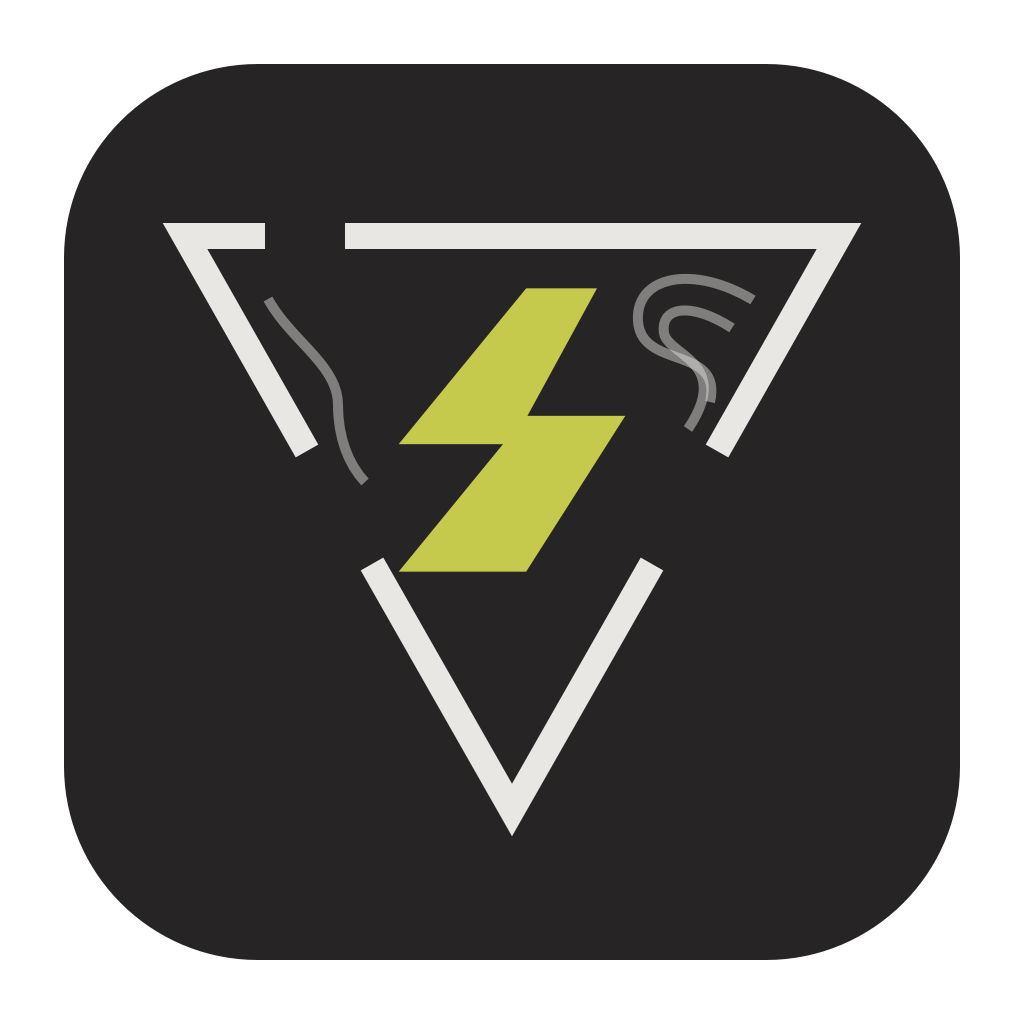
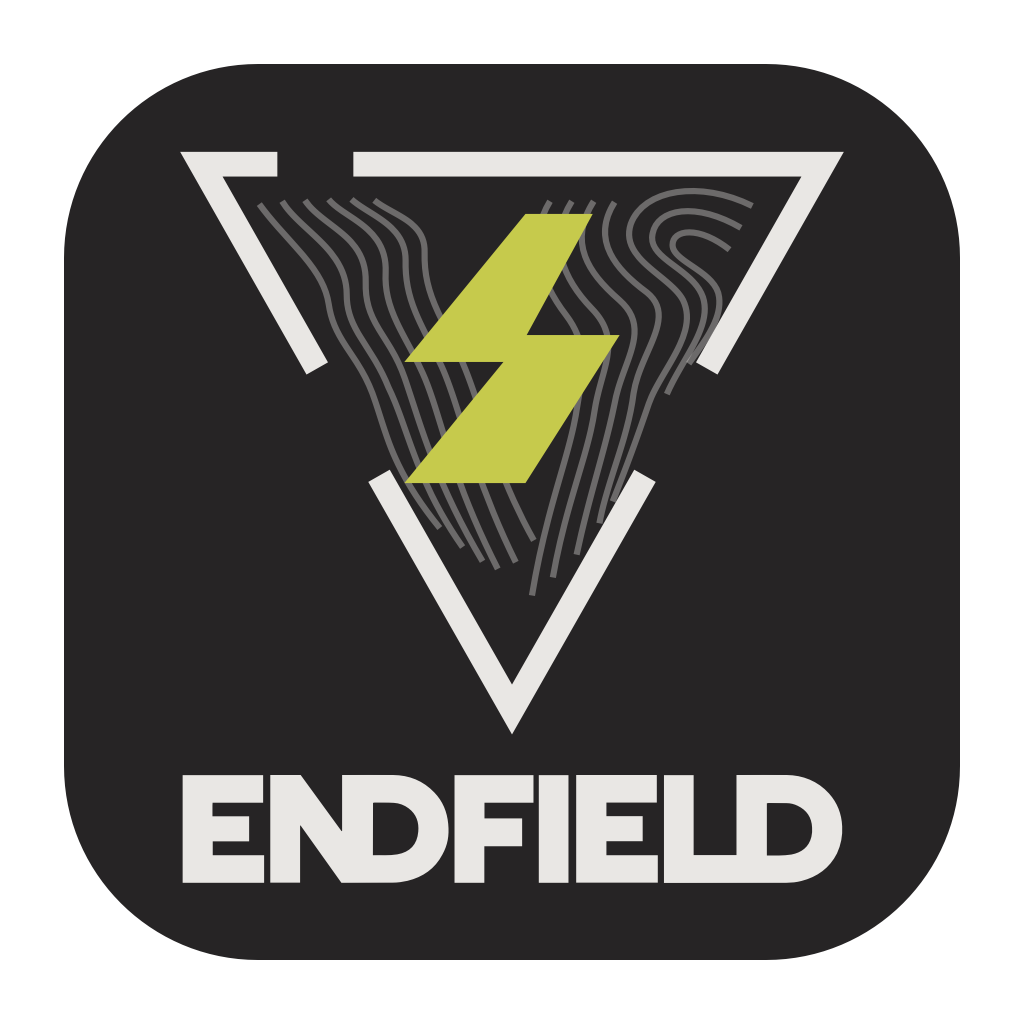
art: refine app contours and preserve original Endfield wordmark

Changed region(s): [[0.1562, 0.125, 0.8438, 0.875]]

diff --git a/scripts/render-icons.swift b/scripts/render-icons.swift
@@ -69,22 +69,184 @@ let triangle = VectorPath(commands: [
     .move(p(345, 236)), .line(p(839, 236)), .line(p(717, 451)),
     .move(p(372, 564)), .line(p(512, 810)), .line(p(652, 564))
 ])
+// Thirteen terrain contours flow in two groups inside the triangle silhouette.
+// Control points also stay inside it, keeping the cubic curves bounded.
 let contours = [
-    VectorPath(commands: [.move(p(268, 299)),
-        .curve(p(291, 341), p(338, 365), p(338, 405)),
-        .curve(p(338, 440), p(350, 466), p(365, 482))]),
-    VectorPath(commands: [.move(p(753, 300)),
-        .curve(p(693, 264), p(635, 276), p(638, 321)),
-        .curve(p(641, 370), p(723, 345), p(710, 402))]),
-    VectorPath(commands: [.move(p(732, 328)),
-        .curve(p(690, 301), p(660, 307), p(664, 333)),
-        .curve(p(668, 356), p(733, 362), p(688, 429))])
+    VectorPath(commands: [.move(p(246, 278)),
+        .curve(p(275, 318), p(313, 344), p(319, 383)),
+        .curve(p(325, 423), p(349, 435), p(365, 477)),
+        .curve(p(380, 518), p(384, 555), p(436, 619))]),
+    VectorPath(commands: [.move(p(270, 275)),
+        .curve(p(289, 306), p(338, 326), p(338, 373)),
+        .curve(p(338, 411), p(364, 426), p(382, 471)),
+        .curve(p(403, 514), p(410, 568), p(460, 639))]),
+    VectorPath(commands: [.move(p(294, 274)),
+        .curve(p(314, 303), p(359, 311), p(358, 360)),
+        .curve(p(357, 405), p(383, 415), p(399, 461)),
+        .curve(p(415, 507), p(430, 568), p(481, 654))]),
+    VectorPath(commands: [.move(p(319, 273)),
+        .curve(p(335, 293), p(381, 302), p(379, 350)),
+        .curve(p(377, 390), p(400, 416), p(418, 456)),
+        .curve(p(437, 498), p(445, 560), p(497, 662))]),
+    VectorPath(commands: [.move(p(343, 273)),
+        .curve(p(362, 290), p(400, 300), p(400, 337)),
+        .curve(p(399, 381), p(417, 404), p(438, 449)),
+        .curve(p(457, 491), p(470, 562), p(516, 655))]),
+    VectorPath(commands: [.move(p(367, 274)),
+        .curve(p(387, 290), p(421, 296), p(420, 329)),
+        .curve(p(419, 373), p(438, 397), p(456, 436)),
+        .curve(p(478, 482), p(491, 554), p(535, 632))]),
+    VectorPath(commands: [.move(p(765, 280)),
+        .curve(p(709, 252), p(650, 263), p(637, 299)),
+        .curve(p(625, 336), p(678, 353), p(692, 379)),
+        .curve(p(709, 414), p(669, 452), p(656, 488)),
+        .curve(p(644, 523), p(635, 548), p(618, 591))]),
+    VectorPath(commands: [.move(p(753, 303)),
+        .curve(p(705, 275), p(665, 283), p(660, 309)),
+        .curve(p(654, 336), p(702, 345), p(713, 376)),
+        .curve(p(723, 407), p(691, 441), p(675, 478))]),
+    VectorPath(commands: [.move(p(741, 326)),
+        .curve(p(708, 300), p(681, 305), p(681, 321)),
+        .curve(p(681, 339), p(727, 349), p(730, 376)),
+        .curve(p(733, 400), p(714, 423), p(698, 446))]),
+    VectorPath(commands: [.move(p(620, 276)),
+        .curve(p(594, 317), p(623, 348), p(654, 371)),
+        .curve(p(686, 397), p(647, 433), p(640, 477)),
+        .curve(p(634, 525), p(613, 567), p(604, 614))]),
+    VectorPath(commands: [.move(p(598, 275)),
+        .curve(p(570, 319), p(593, 351), p(625, 379)),
+        .curve(p(660, 410), p(628, 443), p(620, 488)),
+        .curve(p(610, 537), p(594, 582), p(580, 647))]),
+    VectorPath(commands: [.move(p(575, 275)),
+        .curve(p(548, 318), p(567, 358), p(596, 388)),
+        .curve(p(629, 422), p(606, 450), p(599, 495)),
+        .curve(p(592, 543), p(569, 592), p(555, 671))]),
+    VectorPath(commands: [.move(p(552, 275)),
+        .curve(p(527, 316), p(542, 360), p(569, 395)),
+        .curve(p(594, 428), p(586, 457), p(579, 501)),
+        .curve(p(570, 550), p(548, 600), p(533, 690))])
 ]
 // Exact Geo.Bolt points from HUDView.boltPath, QinAnze/zmd-charge (MIT).
 let boltPolygons = [
     [p(13, 2), p(4, 13), p(12, 13), p(18, 2)],
     [p(13, 11), p(20, 11), p(13, 22), p(4, 22)]
 ].map { polygon($0).transformed(scale: 340 / 24, offset: p(342, 260)) }
+
+// Exact glyph outlines from the first five children of g#svg-def-game-logo
+// and its I rectangle in Resources/endfield-industries.svg. Relative SVG and
+// smooth cubic commands are expanded to absolute commands, preserving winding.
+let endfieldWordmark = [
+    // Original wordmark child 1.
+    VectorPath(commands: [
+        .move(p(104.5, 239.2)),
+        .line(p(104.5, 279.9)),
+        .line(p(83.2, 279.9)),
+        .line(p(83.2, 203)),
+        .line(p(104.9, 203)),
+        .line(p(134.1, 243.1)),
+        .line(p(134.5, 243)),
+        .line(p(134.5, 203)),
+        .line(p(136.1, 203)),
+        .curve(p(147.7, 203), p(159.3, 202.9), p(170.9, 203)),
+        .curve(p(182.5, 203.1), p(192.4, 207.1), p(200.4, 215.5)),
+        .curve(p(206.4, 221.7), p(209.5, 229.3), p(210.3, 237.9)),
+        .curve(p(211.1, 246.5), p(209.9, 253), p(206.1, 259.9)),
+        .curve(p(200.8, 270), p(192.2, 275.9), p(181.2, 278.6)),
+        .curve(p(177.7, 279.4), p(174.2, 279.9), p(170.6, 279.9)),
+        .curve(p(158.9, 280), p(147.1, 280), p(135.4, 280)),
+        .line(p(134, 280)),
+        .line(p(104.8, 239)),
+        .line(p(104.5, 239.2)),
+        .move(p(156.5, 260.3)),
+        .curve(p(162.4, 260.1), p(168.1, 260.7), p(173.9, 259.7)),
+        .curve(p(183, 258.1), p(188.1, 252.7), p(188.9, 243.5)),
+        .curve(p(189.5, 236.8), p(187.6, 231), p(182, 226.8)),
+        .curve(p(179, 224.5), p(175.3, 223.1), p(171.5, 222.9)),
+        .curve(p(166.8, 222.6), p(162.2, 222.8), p(157.6, 222.7)),
+        .line(p(156.6, 222.9)),
+        .line(p(156.5, 260.3)),
+        .close
+    ]),
+    // Original wordmark child 2.
+    VectorPath(commands: [
+        .move(p(364.4, 280)),
+        .line(p(364.4, 203.1)),
+        .line(p(385.6, 203.1)),
+        .line(p(385.6, 260.2)),
+        .line(p(416.2, 260.2)),
+        .line(p(416.2, 203)),
+        .line(p(418, 203)),
+        .curve(p(429.4, 203), p(440.8, 202.9), p(452.1, 203)),
+        .curve(p(463.5, 203.1), p(474.3, 207.3), p(482.3, 216.2)),
+        .curve(p(488.3, 222.9), p(491.3, 230.8), p(491.7, 239.7)),
+        .curve(p(492.1, 246.3), p(490.8, 253), p(488, 259)),
+        .curve(p(482.7, 269.5), p(473.9, 275.8), p(462.6, 278.7)),
+        .curve(p(459.1, 279.6), p(455.6, 280), p(452, 280)),
+        .curve(p(423.3, 280.1), p(394.5, 280.1), p(365.8, 280.1)),
+        .line(p(364.3, 280.1)),
+        .move(p(437.9, 260.5)),
+        .line(p(446.6, 260.5)),
+        .curve(p(449.6, 260.5), p(452.6, 260.2), p(455.5, 259.8)),
+        .curve(p(462.6, 258.4), p(467.9, 254.6), p(469.7, 247.2)),
+        .curve(p(470.2, 245), p(470.4, 242.8), p(470.2, 240.5)),
+        .curve(p(469.9, 233.3), p(466.4, 228.1), p(459.9, 225)),
+        .curve(p(457.5, 223.8), p(454.8, 223.1), p(452, 223.1)),
+        .curve(p(447.7, 223), p(443.5, 223), p(439.2, 223)),
+        .line(p(437.9, 223.2)),
+        .line(p(437.9, 260.5)),
+        .close
+    ]),
+    // Original wordmark child 3.
+    VectorPath(commands: [
+        .move(p(42, 222.8)),
+        .curve(p(42, 223.5), p(41.9, 224.1), p(41.9, 224.7)),
+        .line(p(41.9, 232.5)),
+        .line(p(68.1, 232.5)),
+        .line(p(68.1, 250.4)),
+        .line(p(42.1, 250.4)),
+        .line(p(42.1, 260.3)),
+        .line(p(78.8, 260.3)),
+        .line(p(78.8, 280)),
+        .line(p(20.6, 280)),
+        .line(p(20.6, 203.1)),
+        .line(p(78.1, 203.1)),
+        .line(p(78.1, 222.8)),
+        .line(p(42, 222.8)),
+        .close
+    ]),
+    // Original wordmark child 4.
+    VectorPath(commands: [
+        .move(p(301.7, 279.9)),
+        .line(p(301.7, 203)),
+        .line(p(359.3, 203)),
+        .line(p(359.3, 222.7)),
+        .line(p(323.3, 222.7)),
+        .line(p(323.3, 232.4)),
+        .line(p(349.2, 232.4)),
+        .line(p(349.2, 250.3)),
+        .line(p(323.3, 250.3)),
+        .line(p(323.3, 260.3)),
+        .line(p(360, 260.3)),
+        .line(p(360, 279.9)),
+        .close
+    ]),
+    // Original wordmark child 5.
+    VectorPath(commands: [
+        .move(p(271.2, 222.8)),
+        .line(p(236.2, 222.8)),
+        .line(p(236.2, 234)),
+        .line(p(263.1, 234)),
+        .line(p(263.1, 253.9)),
+        .line(p(236.1, 253.9)),
+        .line(p(236.1, 280)),
+        .line(p(214.8, 280)),
+        .line(p(214.8, 203.1)),
+        .line(p(271.2, 203.1)),
+        .close
+    ]),
+    // Original I rectangle: x=275, y=203.1, width=21.2, height=76.9.
+    polygon([p(275, 203.1), p(296.2, 203.1), p(296.2, 280), p(275, 280)])
+]
 
 struct Shape {
     let path: VectorPath
@@ -103,10 +265,17 @@ struct Shape {
         return "  <path d=\"\(path.svg)\" \(style) opacity=\"\(opacity)\"/>"
     }
 }
+// App-only layout leaves a clear band below the triangle for the original logo.
+// The menu artwork continues to use the unmodified triangle and Geo.Bolt above.
+let appScale: CGFloat = 0.95
+let appOffset = p(25.6, -60)
 let appShapes = [Shape(path: roundedSquare(), color: 0x262425),
-                 Shape(path: triangle, color: 0xE9E7E4, width: 26)] +
-    contours.map { Shape(path: $0, color: 0xE9E7E4, width: 10, opacity: 0.46) } +
-    boltPolygons.map { Shape(path: $0, color: 0xC6CA4C) }
+                 Shape(path: triangle.transformed(scale: appScale, offset: appOffset),
+                       color: 0xE9E7E4, width: 26 * appScale)] +
+    contours.map { Shape(path: $0.transformed(scale: appScale, offset: appOffset),
+                         color: 0xE9E7E4, width: 6.5 * appScale, opacity: 0.36) } +
+    boltPolygons.map { Shape(path: $0.transformed(scale: appScale, offset: appOffset), color: 0xC6CA4C) } +
+    endfieldWordmark.map { Shape(path: $0.transformed(scale: 1.4, offset: p(153.8, 490.8)), color: 0xE9E7E4) }
 let menuScale: CGFloat = 1.22
 let menuOffset = p(512 * (1 - menuScale), 512 * (1 - menuScale))
 let menuShapes = [Shape(path: triangle.transformed(scale: menuScale, offset: menuOffset),
